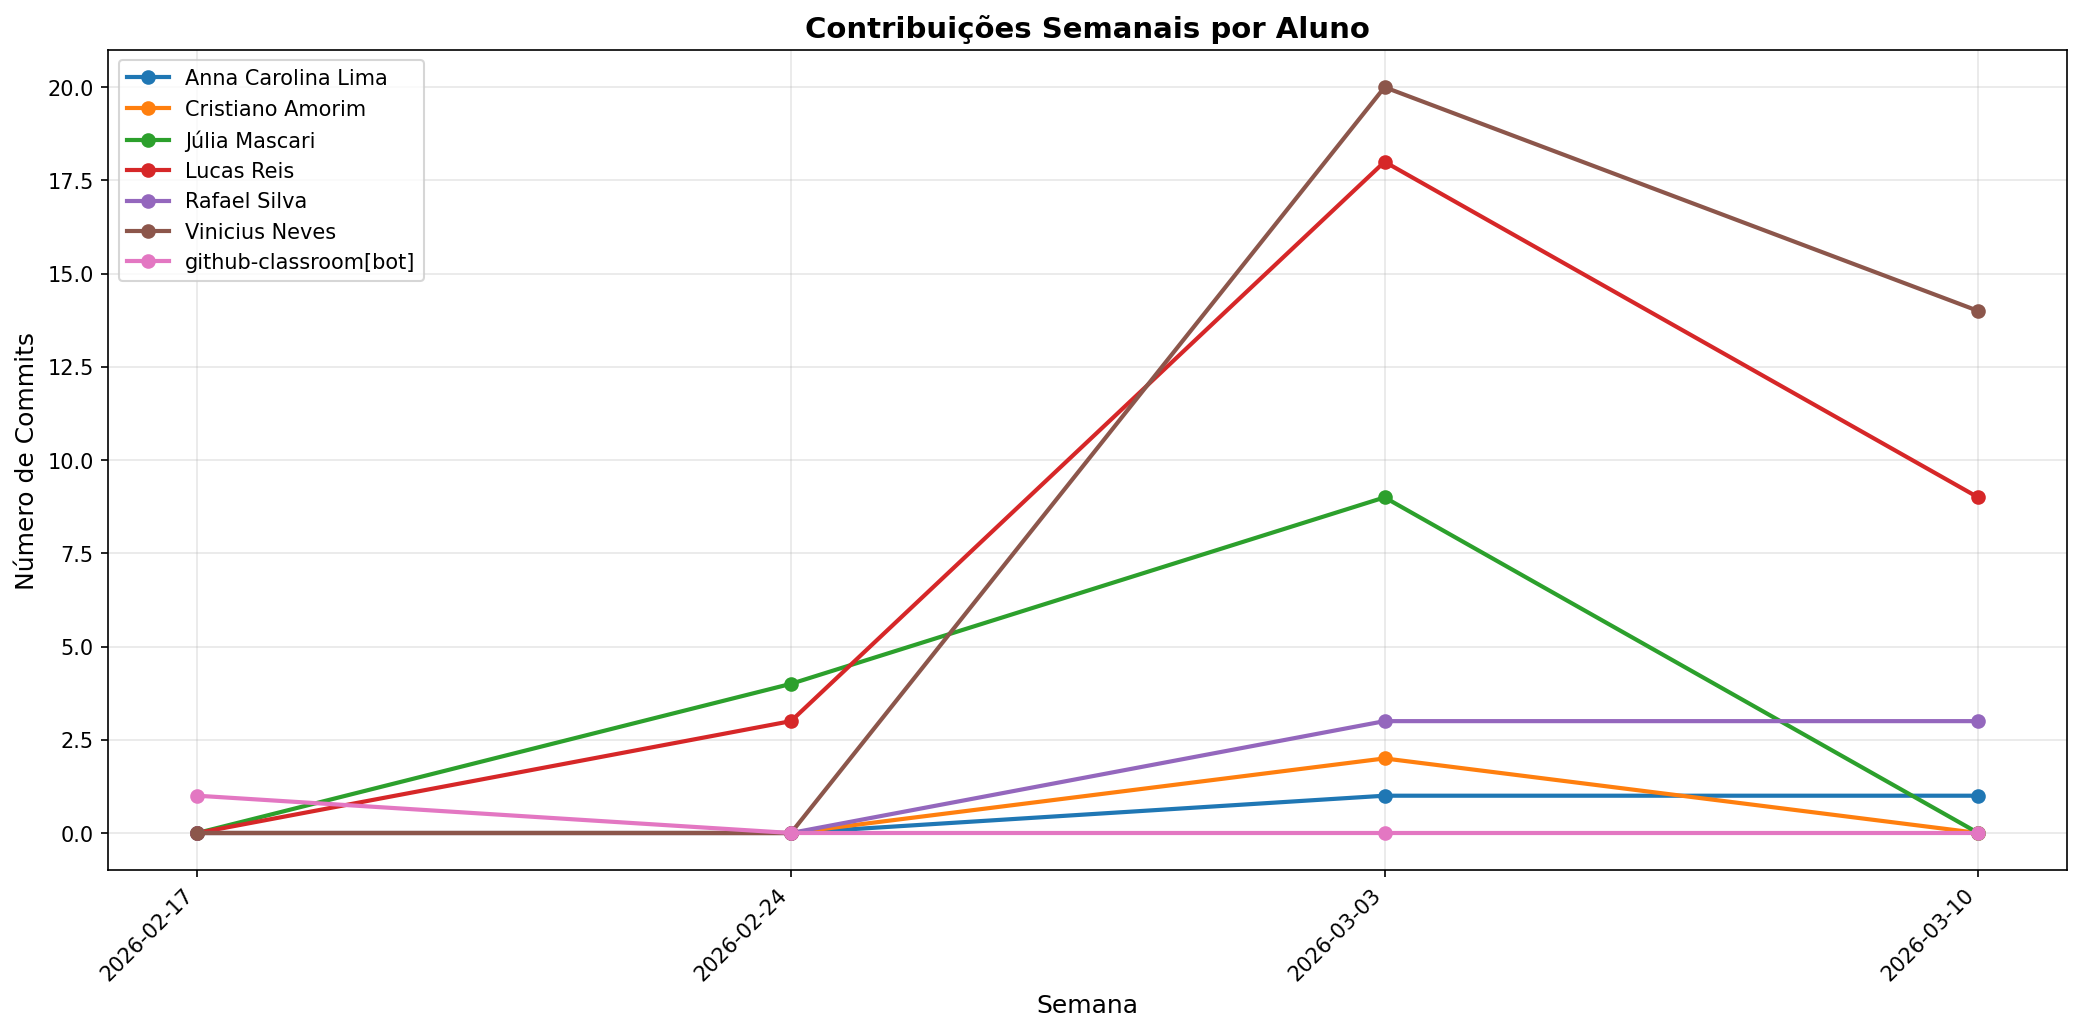
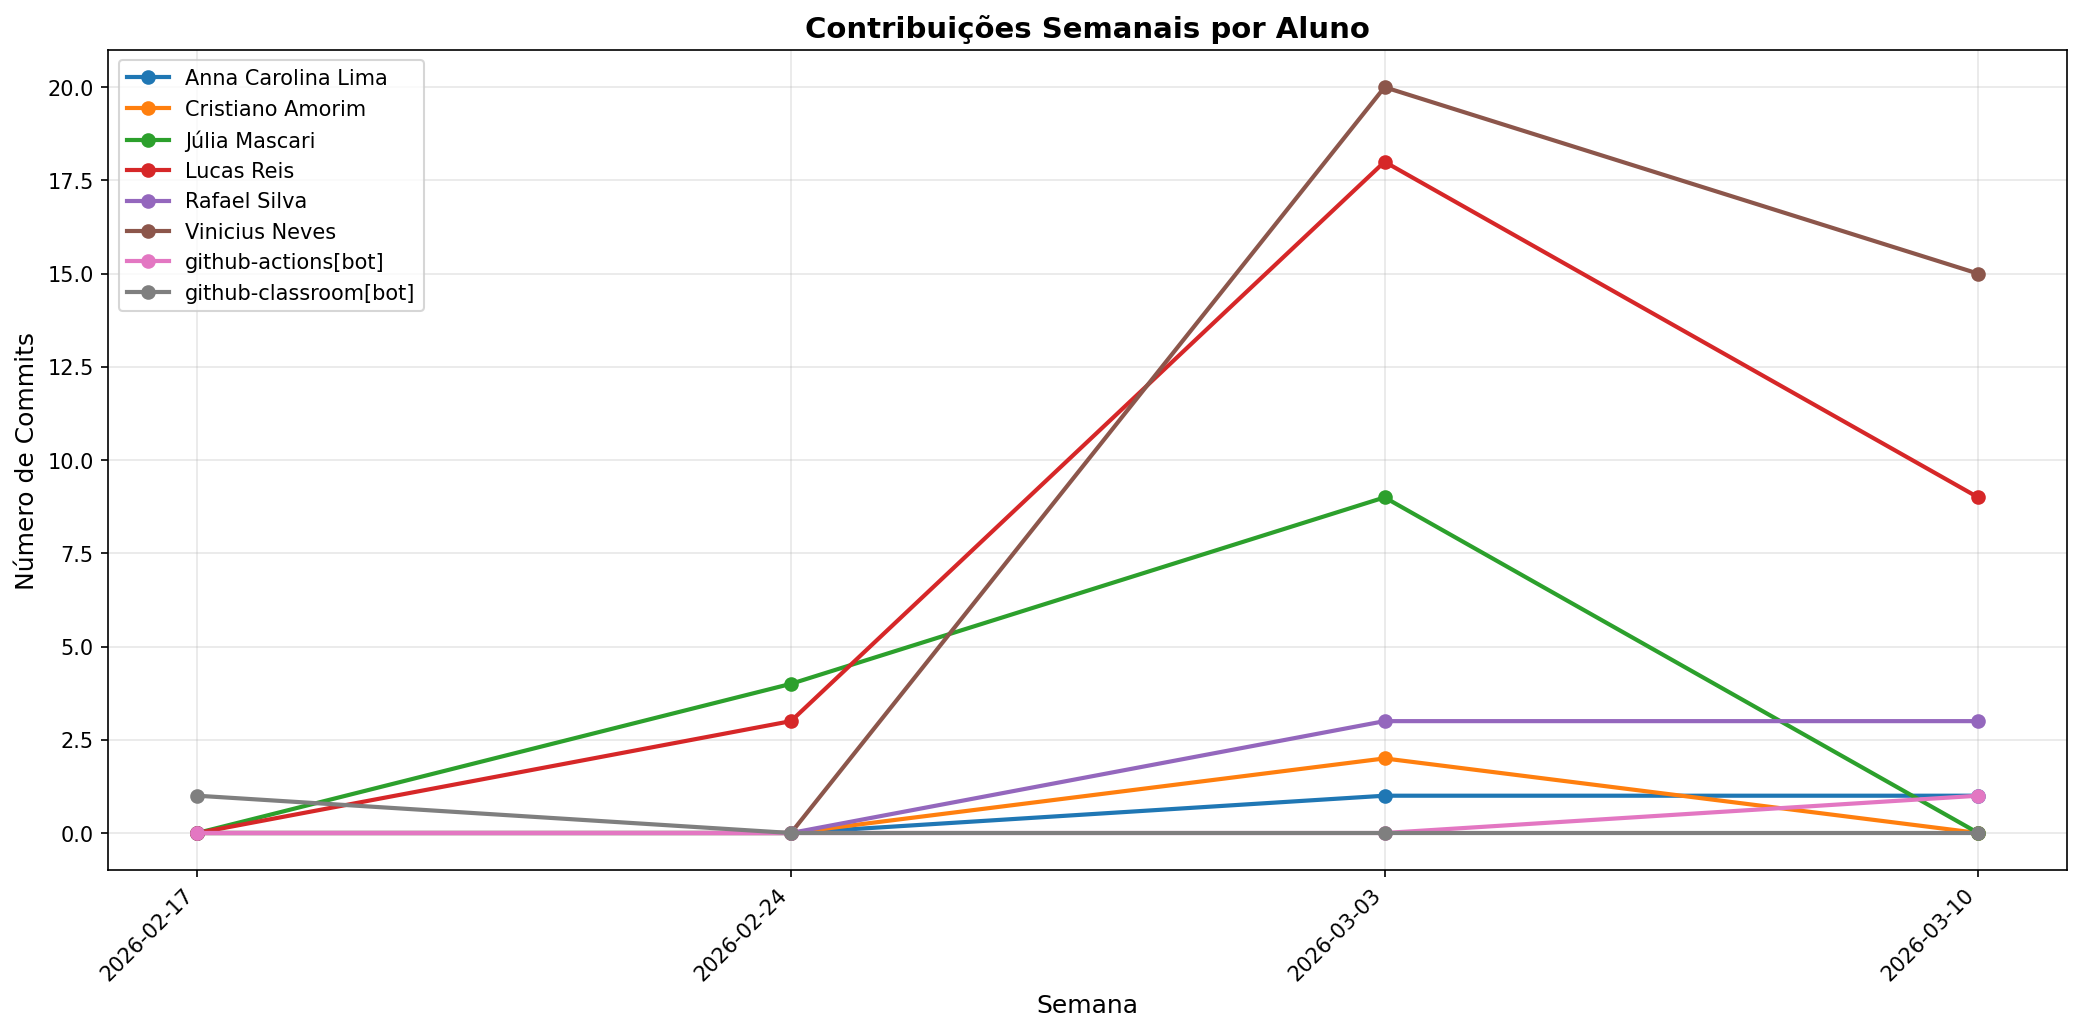
📊 docs: atualizar relatório de contribuições

diff --git a/docs/CONTRIBUTION_REPORT.md b/docs/CONTRIBUTION_REPORT.md
@@ -1,6 +1,6 @@
 # 📊 Relatório de Contribuições do Projeto
 
-**Última atualização:** 17/03/2026 00:31
+**Última atualização:** 17/03/2026 00:35
 
 ---
 
@@ -13,13 +13,14 @@
 | Júlia Mascari         |        13 |       116 |        31 |          3 |             11 |               3 |
 | Lucas Reis            |        30 |        48 |        48 |          4 |             23 |               3 |
 | Rafael Silva          |         6 |        24 |        36 |          3 |              6 |               3 |
-| Vinicius Neves        |        34 |   1290957 |   1284690 |       5659 |             19 |               5 |
+| Vinicius Neves        |        35 |   1290971 |   1284698 |       5660 |             19 |               5 |
+| github-actions[bot]   |         1 |        28 |        31 |          3 |              1 |               1 |
 | github-classroom[bot] |         1 |      2152 |         0 |         45 |              1 |              13 |
 
 
 ## 📅 Contribuições Semanais (Todo o Semestre)
 
-**2026-03-10**: Anna Carolina Lima: 1, Lucas Reis: 9, Rafael Silva: 3, Vinicius Neves: 14
+**2026-03-10**: Anna Carolina Lima: 1, Lucas Reis: 9, Rafael Silva: 3, Vinicius Neves: 15, github-actions[bot]: 1
 
 **2026-03-03**: Anna Carolina Lima: 1, Cristiano Amorim: 2, Júlia Mascari: 9, Lucas Reis: 18, Rafael Silva: 3, Vinicius Neves: 20
 
